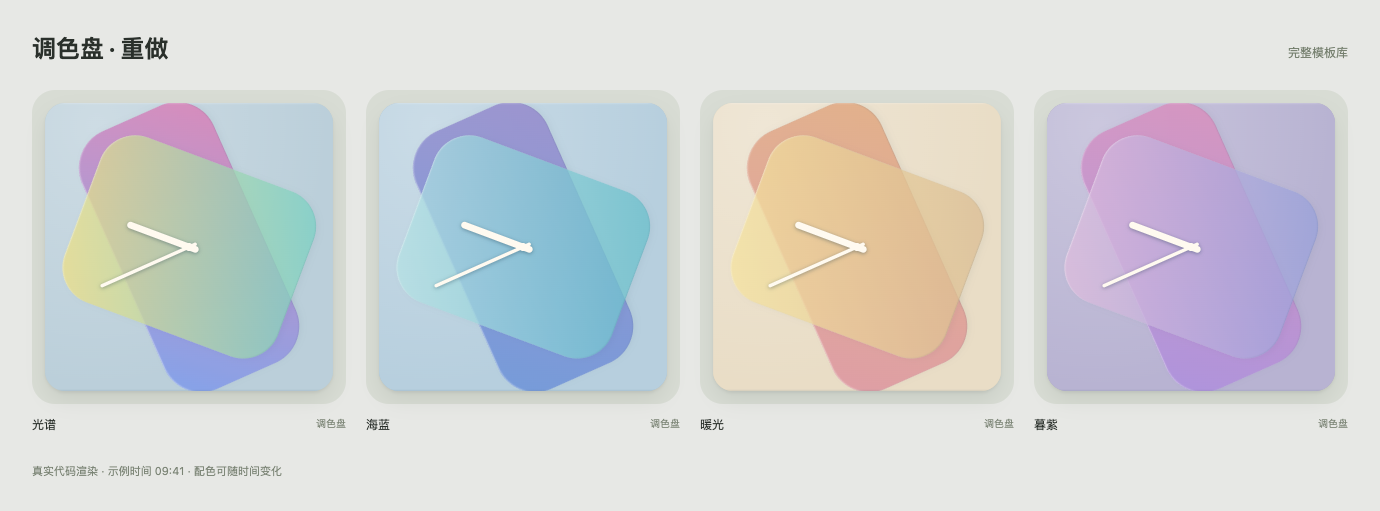
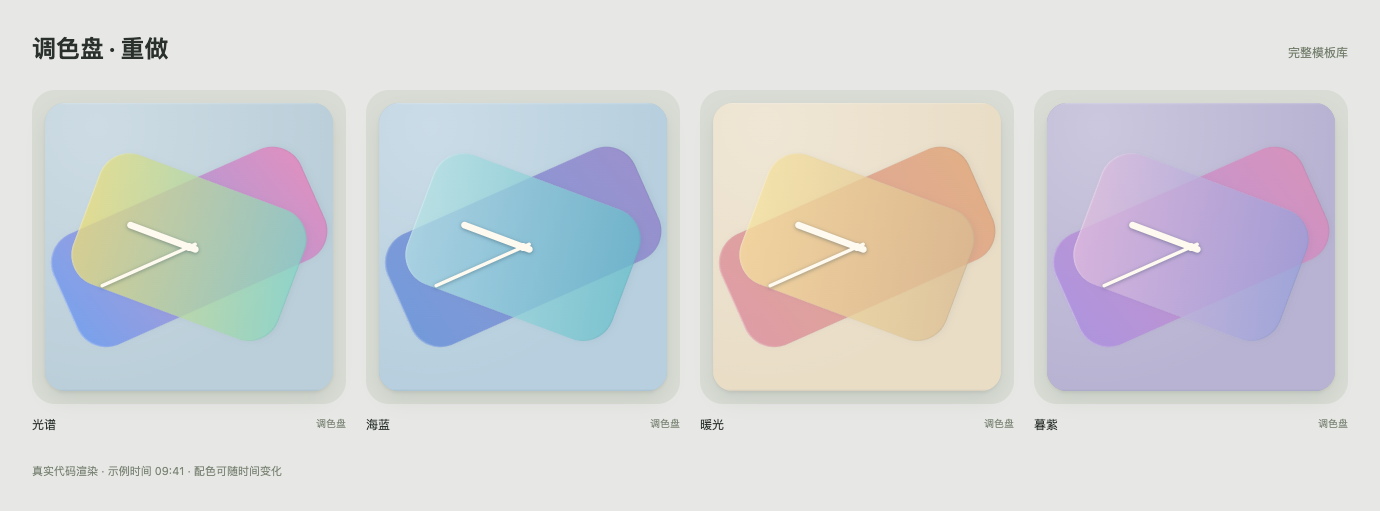
design: align two rainbow rectangles with clock hands

diff --git a/design/template-library-2026-11-01/flower-study/study.css b/design/template-library-2026-11-01/flower-study/study.css
@@ -1,8 +1,1 @@
-*{box-sizing:border-box}body{margin:0;background:#e7e8e5;color:#29322c;font-family:-apple-system,BlinkMacSystemFont,'PingFang SC',sans-serif}main{max-width:1380px;margin:auto;padding:32px}header{display:flex;align-items:baseline;justify-content:space-between;gap:20px;margin-bottom:27px}h1{margin:0;font-size:24px;letter-spacing:-.6px}header a{font-size:12px;color:#77806f;text-decoration:none}.controls{display:flex;align-items:center;gap:32px;margin-bottom:30px;font-size:13px}.controls label{display:flex;align-items:center;gap:14px}.controls input[type=range]{accent-color:#586e61;width:170px}.controls input[type=time]{padding:7px 10px;border:1px solid #c9d0c4;background:#f1f3ec;color:inherit;border-radius:10px;font:inherit}.controls button{border:0;border-radius:24px;background:#d5dfcd;color:#3c5140;padding:10px 20px;font:inherit;cursor:pointer}.controls button[aria-pressed=true]{background:#3c5140;color:#fff}.studies{display:grid;grid-template-columns:repeat(3,minmax(0,1fr));gap:30px}figure{margin:0;min-width:0}.mount{background:#d9ded5;border-radius:27px;padding:16px}.slot{width:100%;container-type:inline-size;isolation:isolate}.art{border-radius:6cqw;box-shadow:0 2px 3px #0001,0 12px 22px #25332416}.flower-face{--sheet-base:#c6d4d8}.flower-face .palette-art{background:radial-gradient(ellipse at 23% 9%,#f6fcf838,transparent 75%),var(--sheet-base)}.flower-stack{position:absolute;inset:0;transform:rotate(var(--rotation,0deg));isolation:isolate}.petal{position:absolute;top:50%;left:50%;width:var(--petal-w);height:44%;border-radius:7cqw 7cqw 4cqw 4cqw;transform-origin:50% 100%;transform:translate(-50%,-100%) rotate(var(--angle));background:linear-gradient(165deg,var(--color),var(--color-soft));opacity:.67;box-shadow:inset 0 .3cqw .5cqw #ffffff55,inset 0 -.25cqw .4cqw #44627a12;mix-blend-mode:multiply}.flower-face.count-6{--petal-w:39%}.flower-face.count-8{--petal-w:32%}.flower-face.count-12{--petal-w:24%}.count-12 .petal{border-radius:6cqw 6cqw 3cqw 3cqw}.count-6 .petal{height:43%;border-radius:9cqw 9cqw 5cqw 5cqw}.flower-face .palette-art>svg{filter:drop-shadow(0 .4cqw .6cqw #2644566b)}figcaption{font-size:13px;margin-top:15px}footer{font-size:11px;color:#7a8474;margin-top:30px}.playing .flower-stack{animation:flower-turn 28s linear infinite}@keyframes flower-turn{from{transform:rotate(var(--rotation,0deg))}to{transform:rotate(calc(var(--rotation,0deg) + 360deg))}}@media(prefers-reduced-motion:reduce){.playing .flower-stack{animation:none}}@media(max-width:760px){main{padding:24px 18px}.studies{grid-template-columns:1fr;gap:28px;max-width:470px;margin:auto}.controls{gap:16px;flex-wrap:wrap}.controls input[type=range]{width:130px}h1{font-size:22px}.mount{padding:14px}footer{margin-top:25px}}
-.flower-stack{animation:flower-turn 28s linear infinite;animation-play-state:paused}.playing .flower-stack{animation-play-state:running}
-@media(prefers-reduced-motion:reduce){.flower-stack{animation:none}}
-
-/* Each monochrome rectangle is centered on the pivot and extends to both sides. */
-.petal{height:86%;border-radius:8cqw;transform-origin:50% 50%;transform:translate(-50%,-50%) rotate(var(--angle));background:var(--color);opacity:.62;mix-blend-mode:normal;box-shadow:inset 0 0 0 .18cqw #ffffff40}
-.flower-face.count-6{--petal-w:40%}.flower-face.count-8{--petal-w:34%}.flower-face.count-12{--petal-w:28%}
-.count-6 .petal,.count-12 .petal{height:86%;border-radius:8cqw}
+*{box-sizing:border-box}body{margin:0;background:#e7e8e5;color:#29322c;font-family:-apple-system,BlinkMacSystemFont,'PingFang SC',sans-serif}main{max-width:1380px;margin:auto;padding:32px}header{display:flex;align-items:baseline;justify-content:space-between;gap:20px;margin-bottom:27px}h1{margin:0;font-size:24px;letter-spacing:-.6px}header a{font-size:12px;color:#77806f;text-decoration:none}.controls{display:flex;align-items:center;gap:32px;margin-bottom:30px;font-size:13px}.controls label{display:flex;align-items:center;gap:14px}.controls input[type=time]{padding:7px 10px;border:1px solid #c9d0c4;background:#f1f3ec;color:inherit;border-radius:10px;font:inherit}.studies{display:grid;grid-template-columns:repeat(3,minmax(0,1fr));gap:30px}figure{margin:0;min-width:0}.mount{background:#d9ded5;border-radius:27px;padding:16px}.slot{width:100%;container-type:inline-size;isolation:isolate}.art{border-radius:6cqw;box-shadow:0 2px 3px #0001,0 12px 22px #25332416}figcaption{font-size:13px;margin-top:15px}footer{font-size:11px;color:#7a8474;margin-top:30px}@media(max-width:760px){main{padding:24px 18px}.studies{grid-template-columns:1fr;gap:28px;max-width:470px;margin:auto}h1{font-size:21px}.mount{padding:14px}footer{margin-top:25px}}

diff --git a/design/template-library-2026-11-01/flower-study/index.html b/design/template-library-2026-11-01/flower-study/index.html
@@ -1,1 +1,1 @@
-<!doctype html><html lang="zh-CN"><meta charset="utf-8"><meta name="viewport" content="width=device-width,initial-scale=1"><title>调色盘 · 花形色片</title><link rel="stylesheet" href="../templates.css"><link rel="stylesheet" href="study.css"><body><main><header><h1>花形色片</h1><a href="../index.html?design=dial">返回调色盘</a></header><div class="controls"><label>旋转<input id="rotation" type="range" min="0" max="360" value="0"></label><label>时间<input id="time" type="time" value="10:09"></label><button id="play" aria-pressed="false">转起来</button></div><section class="studies" aria-label="三种花形"><figure data-petals="6"><div class="mount"><div class="slot" id="flower-6"></div></div><figcaption>三条 · 60° 错角</figcaption></figure><figure data-petals="8"><div class="mount"><div class="slot" id="flower-8"></div></div><figcaption>四条 · 45° 错角</figcaption></figure><figure data-petals="12"><div class="mount"><div class="slot" id="flower-12"></div></div><figcaption>六条 · 30° 错角</figcaption></figure></section><footer>整条矩形穿过表心 · 每条单色</footer></main><script src="../../../previewer/shared-models.js"></script><script src="../catalog.js"></script><script src="../fixtures.js"></script><script src="../renderers.js"></script><script src="study.js"></script></body></html>
+<!doctype html><html lang="zh-CN"><meta charset="utf-8"><meta name="viewport" content="width=device-width,initial-scale=1"><title>调色盘 · 指针对齐</title><link rel="stylesheet" href="../templates.css"><link rel="stylesheet" href="study.css"><body><main><header><h1>两张色片 · 跟随指针</h1><a href="../index.html?design=dial">打开调色盘</a></header><div class="controls"><label>预览时间<input id="time" type="time" value="10:09"></label></div><section class="studies" aria-label="三个时间"><figure><div class="mount"><div class="slot" id="aligned-0"></div></div><figcaption id="caption-0">10:09 · 可调整</figcaption></figure><figure><div class="mount"><div class="slot" id="aligned-1"></div></div><figcaption>09:41</figcaption></figure><figure><div class="mount"><div class="slot" id="aligned-2"></div></div><figcaption>03:15</figcaption></figure></section><footer>短色片与时针对齐 · 长色片与分针对齐</footer></main><script src="../../../previewer/shared-models.js"></script><script src="../catalog.js"></script><script src="../fixtures.js"></script><script src="../renderers.js"></script><script src="study.js"></script></body></html>

diff --git a/design/template-library-2026-11-01/flower-study/study.js b/design/template-library-2026-11-01/flower-study/study.js
@@ -1,6 +1,6 @@
 (function(){
-const schemes={6:['#89a9df','#dca5c4','#e6d29a'],8:['#89a9df','#8bcbd1','#e5c49d','#b59bd2'],12:['#89a9df','#88c7d1','#a6ccac','#e3d397','#e0aea5','#b59bd2']};let rotation=0,tick=new Date('2026-11-01T10:09:00+08:00').getTime(),playing=false;
-function render(){for(const count of [6,8,12]){const t=document.createElement('template');t.innerHTML=TemplateRender.render('dial',{tick});const art=t.content.querySelector('.art'),face=t.content.querySelector('.palette-art'),hands=face.querySelector('svg');art.classList.add('flower-face','count-'+count);face.replaceChildren();const stack=document.createElement('div');stack.className='flower-stack';stack.style.setProperty('--rotation',rotation+'deg');for(let i=0;i<count/2;i++){const c=schemes[count][i],petal=document.createElement('i');petal.className='petal';petal.style.cssText=`--angle:${i*360/count}deg;--color:${c}`;stack.append(petal);}face.append(stack,hands);document.getElementById('flower-'+count).replaceChildren(t.content);}document.body.classList.toggle('playing',playing);}
-document.getElementById('rotation').oninput=e=>{rotation=Number(e.target.value);document.querySelectorAll('.flower-stack').forEach(s=>s.style.setProperty('--rotation',rotation+'deg'));};document.getElementById('time').oninput=e=>{if(!/^\d{2}:\d{2}$/.test(e.target.value))return;const [h,m]=e.target.value.split(':').map(Number),d=new Date(tick);d.setHours(h,m,0,0);tick=d.getTime();render();};document.getElementById('play').onclick=()=>{playing=!playing;document.body.classList.toggle('playing',playing);document.getElementById('play').setAttribute('aria-pressed',String(playing));document.getElementById('play').textContent=playing?'暂停':'转起来';};
-window.FlowerStudy={snapshot:()=>({rotation,tick,playing})};render();
+function at(value){const [h,m]=value.split(':').map(Number),d=new Date(LibraryFixtures.tick);d.setHours(h,m,0,0);return d.getTime();}
+function show(index,value){document.getElementById('aligned-'+index).innerHTML=TemplateRender.render('dial',{tick:at(value)});}
+for(const [i,value] of ['10:09','09:41','03:15'].entries())show(i,value);
+document.getElementById('time').oninput=e=>{if(!/^\d{2}:\d{2}$/.test(e.target.value))return;show(0,e.target.value);document.getElementById('caption-0').textContent=e.target.value+' · 可调整';};
 })();

diff --git a/design/template-library-2026-11-01/catalog.js b/design/template-library-2026-11-01/catalog.js
@@ -48,6 +48,6 @@ const rows=[
 ['ensemble','mix-memory','相片日历','照片 + 纸本','纪念日照片 + 日期 + 农历',['照片','起始日期','配色']]
 ];
 const sourceMap={'mix-standby':['clock','calendar'],'mix-modular':['clock','agenda','battery'],'mix-study':['clock','timetable','dayprogress'],'mix-travel':['worldclock','countdown'],'mix-memory':['anniversary','date','lunar']};
-const catalog=rows.map(([kind,id,name,reference,intent,customize])=>({kind,id,name,reference,intent,customize,sources:sourceMap[id]||[kind],scope:kind==='ensemble'?'group':'card',aspect:id==='mix-standby'?2:1,revision:id==='dial'?3:['dial','countdown-orbit','day-dial','year-arc','course-week','calendar-ledger','battery-segments'].includes(id)?2:1}));
+const catalog=rows.map(([kind,id,name,reference,intent,customize])=>({kind,id,name,reference,intent,customize,sources:sourceMap[id]||[kind],scope:kind==='ensemble'?'group':'card',aspect:id==='mix-standby'?2:1,revision:id==='dial'?4:['dial','countdown-orbit','day-dial','year-arc','course-week','calendar-ledger','battery-segments'].includes(id)?2:1}));
 g.TemplateCatalog={categories,catalog};if(typeof module!=='undefined')module.exports=g.TemplateCatalog;
 })(globalThis);

diff --git a/design/template-library-2026-11-01/templates.css b/design/template-library-2026-11-01/templates.css
@@ -50,3 +50,8 @@
 .dial.palette-cream{--sheet-base:#e9ddc6;--sheet-a:#db8d9e;--sheet-b:#dfa578;--sheet-c:#f6e49f;--sheet-d:#d9ba91}
 .dial.palette-ink{--sheet-base:#b8b3d2;--sheet-a:#aa8ce0;--sheet-b:#dc8bb8;--sheet-c:#e2bedd;--sheet-d:#949fda}
 .palette-art{overflow:hidden}
+/* Both full rectangles share the clock pivot; their long axes follow the hands. */
+.palette-band{transform-origin:50% 50%}
+.palette-band.outer{width:42%;height:94%;border-radius:11cqw;transform:translate(-50%,-50%) rotate(var(--minute-angle));background:linear-gradient(165deg,var(--sheet-a),var(--sheet-b));opacity:.82}
+.palette-band.middle{width:48%;height:76%;border-radius:11cqw;transform:translate(-50%,-50%) rotate(var(--hour-angle));background:linear-gradient(165deg,var(--sheet-c),var(--sheet-d));opacity:.76}
+.dial{--sheet-a:#6797f0;--sheet-b:#e782ba;--sheet-c:#f0dd75;--sheet-d:#7dd4c8}

diff --git a/design/template-library-2026-11-01/flower-study/README.md b/design/template-library-2026-11-01/flower-study/README.md
@@ -1,11 +1,9 @@
-# 花形色片试作
+# 两张色片与指针对齐
 
-2026-11-01。按用户要求，将上一版圆角矩形色片围绕表心旋转，形成花状的时钟盘面。
+2026-11-01。按用户最新方向，停止多矩形花形，恢复两张穿心矩形：短色片的长轴跟随时针，长色片的长轴跟随分针；几何中心均与表心重合。保留彩虹渐变、透明叠色与暖白指针，盘面无字。
 
-- 三条 / 四条 / 六条单色矩形分别以 60° / 45° / 30° 错角叠放。每条的几何中心与表心重合，两端都露出；色片本体不使用渐变。
-- 复用现有调色盘的共享时间模型和指针，不在盘面添加文字、数字或日期。
-- 旋转滑条、预览时间，以及浏览器内的缓慢旋转/暂停；尊重减少动态效果设置。
-- 仅为独立设计试作，未替换图库中的调色盘，也没有修改正式 App 或承诺桌面持续动画。
-- 全部为 DOM/CSS/SVG，未新增图片素材。
+本页直接调用图库当前的调色盘 renderer，不再另绘一套几何。三个画面分别显示可调的 10:09、固定的 09:41 与 03:15。取消独立旋转和播放，色片方向只由对应指针决定。
 
-`node verify.cjs` 验证色片数、无字盘面、旋转、时间、播放/暂停和 390px 布局；输出 `overview.png` 与 `mobile.png`。
+`node verify.cjs` 检查：每张仅两片；computed transform 的旋转角与时、分针一致；长轴方向正确；两个矩形中心与表心偏差小于 1 CSS px；渐变、无字、六个时间和 390px 布局。输出 overview.png 与 mobile.png。
+
+没有修改正式 App、数据存储或桌面绑定。

diff --git a/design/template-library-2026-11-01/DESIGN-REFERENCES.md b/design/template-library-2026-11-01/DESIGN-REFERENCES.md
@@ -70,3 +70,10 @@
 调色盘 revision 3 去掉全部可见日期/文字，保留无障碍时间读数。构图改为两张圆角半透明色片，分别按时针、分针方向转动，重叠区通过透明合成改变颜色；盘面加入细薄的材质边光。采用实心暖白指针，取消原来的白色空心描边。四组配色保留。没有使用生成式图像或 Apple 的运行素材。
 
 最新画面为 `palette-v3.png` 与 `polish.png`；主图库、总览和单卡分页同步更新。验证新增：已删除模板不在目录、盘面 textContent 为空、不同时间的色片/指针角度正确。
+
+
+## 最新方向：两张矩形与时、分针对齐
+
+按用户纠偏停止多片花形，调色盘 revision 4 回到两张矩形。两片均以表心为几何中心，长轴初始沿 12 点方向，分别旋转小时角（含分钟推进）和分钟角，修正旧版横向长片与分针差 90° 的关系。保留彩虹渐变与透明叠色；移除任意角度旋转/播放入口，方向完全由读时决定。
+
+`flower-study/` 的原 URL 更新为对齐演示，直接复用当前调色盘。验证 computed transform 与实际长轴，覆盖 10:09、09:41、03:15、00:00、06:30、23:59；盘面仍不显示文字。

diff --git a/design/template-library-2026-11-01/README.md b/design/template-library-2026-11-01/README.md
@@ -6,7 +6,7 @@
 
 [调色盘与其他精修样稿](polish.html)：重做随时间转动的半透明色片与实心指针，盘面不显示文字，4 组配色；改进环绕、一天、年轮、周课表、月记、电格。纪念章已删除，当前共 39 款单卡与 5 组组合。图库点开调色盘可改预览时间。
 
-[花形色片试作](flower-study/index.html)：三条、四条、六条单色圆角矩形穿过表心、错角叠放，可调角度并播放缓慢旋转。
+[色片对齐试作](flower-study/index.html)：两张穿心矩形分别与时针、分针对齐，保留彩虹渐变，可调整预览时间。
 
 ## 查看
 
